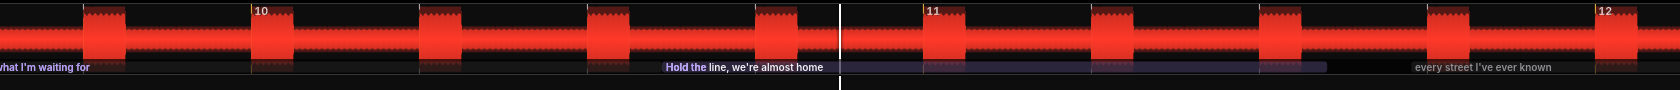
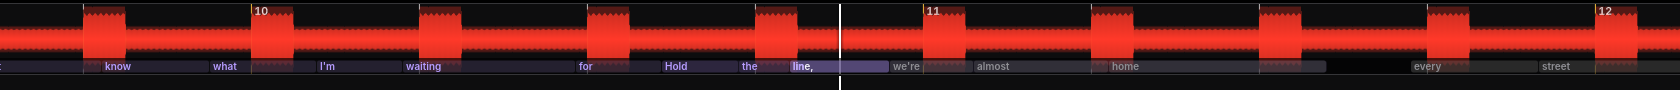
Waveform lyrics: each word at its own time, steady on whole pixels (#567)
<!-- claude-projects-attribution: {"github_login":"sebastian-beca"} -->
_Requested by **Seba** · [project
thread](https://claude.ai/code/project/chan_01T4LB8QgqFWJhdUrMtuBXpQ?thread=cmsg_01T4LB8QgqFWJhdUrMtuBXpQHRMmXyc56eKEScQFk41x6c)_

Part of #445

This follows up on testing of the lyrics lane under the waveforms
(#519), which turned up three problems: the letters jittered while the
deck played, all the words sat at the left of their line's strip, and
strips were sometimes too long.

## What changes

- **One chip per word** (`LyricsLane`, `WaveWord`): each word is a chip
placed at the time it is sung, on a faint strip for its line.
- The word being sung is lit and fills with lilac. Words already sung
are lilac, and words still to come are dim.
- Words come from `Line::word_times`. For lyrics timed only by line, the
words are spread over the line by length, so Time Words makes them
exact.
- **No jitter**: every position is a whole pixel, offset from one
rounded origin (`round(now * per-second)`). All the words move together,
one pixel at a time, instead of each one rounding differently on every
frame.
- **Shorter strips**: a line's last word is held at most 1.5 s past the
time it takes to sing it (`HOLD`). A line whose timing runs into a long
gap (a word-timed LRC whose end stamp is the next line, or an `end` from
Whisper) no longer stretches across that gap.
- `lyrics::word_length` is now public. The guide and the
[…]

diff --git a/crates/app/src/browser/lyrics/wave.rs b/crates/app/src/browser/lyrics/wave.rs
@@ -13,7 +13,7 @@ use slint::{ComponentHandle, Model, ModelRc, VecModel};
 
 use super::super::Browser;
 use super::store;
-use crate::{settings, AppWindow, DeckLines, WaveLine, WaveLyrics};
+use crate::{settings, AppWindow, DeckLines, WaveLine, WaveLyrics, WaveWord};
 
 /// The setting: Settings › Decks › Lyrics on waveforms, on at first.
 pub const SHOWN: &str = "waveform_lyrics";
@@ -60,7 +60,12 @@ impl WaveState {
     }
 }
 
-/// The lines of timed lyrics that are sung, with when each ends.
+/// The longest a line's last word is shown held, past what singing it
+/// takes: a line timed to run on to a long gap shouldn't stretch across it.
+const HOLD: f64 = 1.5;
+
+/// The lines of timed lyrics that are sung, each word with when it starts
+/// and ends (spread over the line by length when only the line is timed).
 pub(super) fn wave_lines(lines: &[Line]) -> Vec<WaveLine> {
     lines
         .iter()
@@ -69,11 +74,25 @@ pub(super) fn wave_lines(lines: &[Line]) -> Vec<WaveLine> {
         .filter_map(|(i, l)| {
             let start = l.start?;
             let until = lines.get(i + 1).and_then(|n| n.start);
-            let end = l.word_times(until).last().map_or(start, |w| w.1);
+            let mut times = l.word_times(until);
+            if let Some(last) = times.last_mut() {
+                let sung = lyrics::word_length(last.2.trim().chars().count());
+                last.1 = last.1.min(last.0 + sung + HOLD);
+            }
+            let end = times.last().map_or(start, |w| w.1).max(start + 0.2);
+            let words: Vec<WaveWord> = times
+                .into_iter()
+                .filter(|w| !w.2.trim().is_empty())
+                .map(|(s, e, text)| WaveWord {
+                    start: s as f32,
+                    end: e.max(s + 0.05) as f32,
+                    text: text.trim().into(),
+                })
+                .collect();
             Some(WaveLine {
                 start: start as f32,
-                end: end.max(start + 0.2) as f32,
-                text: l.text.trim().into(),
+                end: end as f32,
+                words: ModelRc::new(VecModel::from(words)),
             })
         })
         .collect()
@@ -143,13 +162,30 @@ mod tests {
         let lines = lyrics::parse("[00:10.00]Hi there\n[00:11.00]\n[00:20.00]Next").unwrap();
         let w = wave_lines(&lines);
         assert_eq!(w.len(), 2, "breaks have no strip");
-        assert_eq!(w[0].text, "Hi there");
         assert_eq!(w[0].start, 10.0);
         // Ends by the next line's start.
         assert!(w[0].end <= 11.0 && w[0].end > 10.0);
+        let words: Vec<WaveWord> = w[0].words.iter().collect();
+        assert_eq!(words.len(), 2);
+        assert_eq!(words[0].text, "Hi");
+        assert_eq!(words[0].start, 10.0);
+        assert!(words[1].start > 10.0 && words[1].start < words[1].end);
         assert!(lyrics::parse("Plain")
             .map(|l| wave_lines(&l))
             .unwrap()
             .is_empty());
+    }
+
+    #[test]
+    fn words_sit_at_their_own_times() {
+        let text = "[00:10.00]<00:10.00>Too <00:10.40>many <00:11.20>fathers<00:30.00>";
+        let w = wave_lines(&lyrics::parse(text).unwrap());
+        let words: Vec<WaveWord> = w[0].words.iter().collect();
+        let starts: Vec<f32> = words.iter().map(|w| w.start).collect();
+        assert_eq!(starts, vec![10.0, 10.4, 11.2]);
+        assert_eq!(words[0].end, 10.4);
+        // The last word isn't held across the long gap the line ends on.
+        assert!(words[2].end < 14.0, "{}", words[2].end);
+        assert_eq!(w[0].end, words[2].end);
     }
 }

diff --git a/crates/engine/src/lyrics.rs b/crates/engine/src/lyrics.rs
@@ -131,7 +131,7 @@ pub struct Fill {
 }
 
 /// Seconds a word of `chars` letters is reckoned to last when nothing says.
-fn word_length(chars: usize) -> f64 {
+pub fn word_length(chars: usize) -> f64 {
     0.35 + chars as f64 * 0.08
 }
 

diff --git a/openspec/changes/add-waveform-lyrics/specs/lyrics/spec.md b/openspec/changes/add-waveform-lyrics/specs/lyrics/spec.md
@@ -1,7 +1,7 @@
 ## ADDED Requirements
 
 ### Requirement: Lyrics on the waveforms
-When a track with timed lyrics is on a deck, its big waveform SHALL show the lyrics along its bottom edge, each line placed in time from when it is sung to when it ends and scrolling with the audio, with the line being sung lit and filled in the accent color as it is sung. Settings › Decks › Lyrics on waveforms SHALL turn this off; it is on at first.
+When a track with timed lyrics is on a deck, its big waveform SHALL show the lyrics along its bottom edge, scrolling with the audio: each line placed in time from when it is sung to when it ends, and each word placed at the time it is sung, with the word being sung lit and filled in the accent color as it is sung and the words already sung in the accent color. The lane SHALL move in whole pixels so the words don't shimmer. Settings › Decks › Lyrics on waveforms SHALL turn this off; it is on at first.
 
 #### Scenario: Line under the playhead
 - **WHEN** deck A plays a track whose line "Hold the line" is sung from 0:39.4 to 0:43.4 and the deck is at 0:40.5

diff --git a/website/book/src/guide/lyrics.md b/website/book/src/guide/lyrics.md
@@ -48,10 +48,12 @@ line to play from it. Press the button again, or the ⌄ at the top left, to go 
 ## On the waveforms
 
 When a track on a deck has timed lyrics, they run along the bottom of its
-big waveform, scrolling with the audio: each line is a strip from when it
-is sung to when it ends, so you can see where the singing is and what
-comes next while you mix. The line being sung is lit, and its words turn
-lilac as it is sung. Turn this off in Settings › Decks › **Lyrics on
+big waveform, scrolling with the audio, so you can see where the singing is
+and what comes next while you mix. Each word sits at the moment it is sung,
+on a faint strip for its line. The word being sung is lit and fills with
+lilac, and words already sung stay lilac. Lyrics timed only by line have
+their words spread over the line by length; [Time words](#time-words)
+places them exactly. Turn this off in Settings › Decks › **Lyrics on
 waveforms**.
 
 ![Lyrics on a deck's waveform](../images/waveform-lyrics.png)
